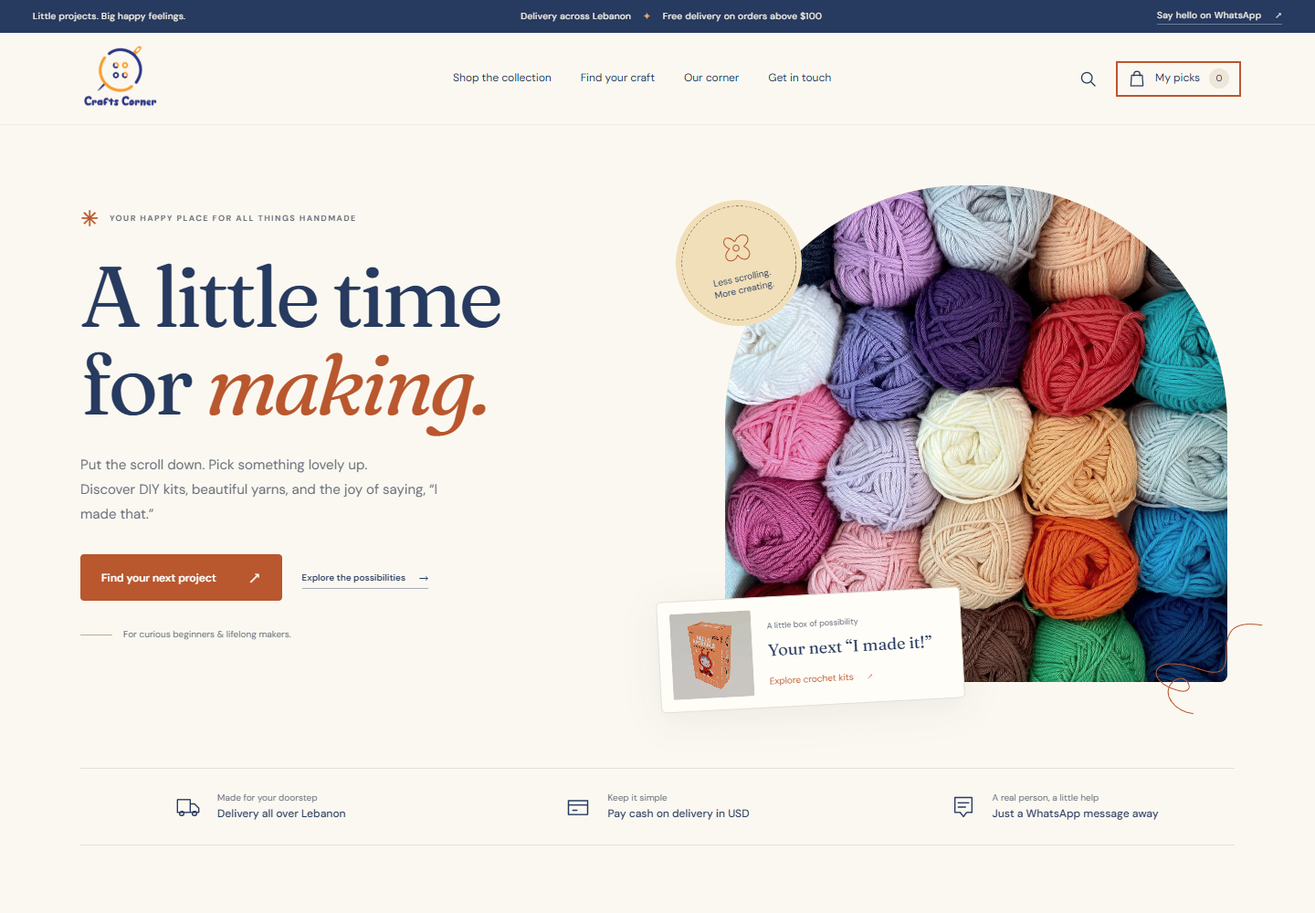
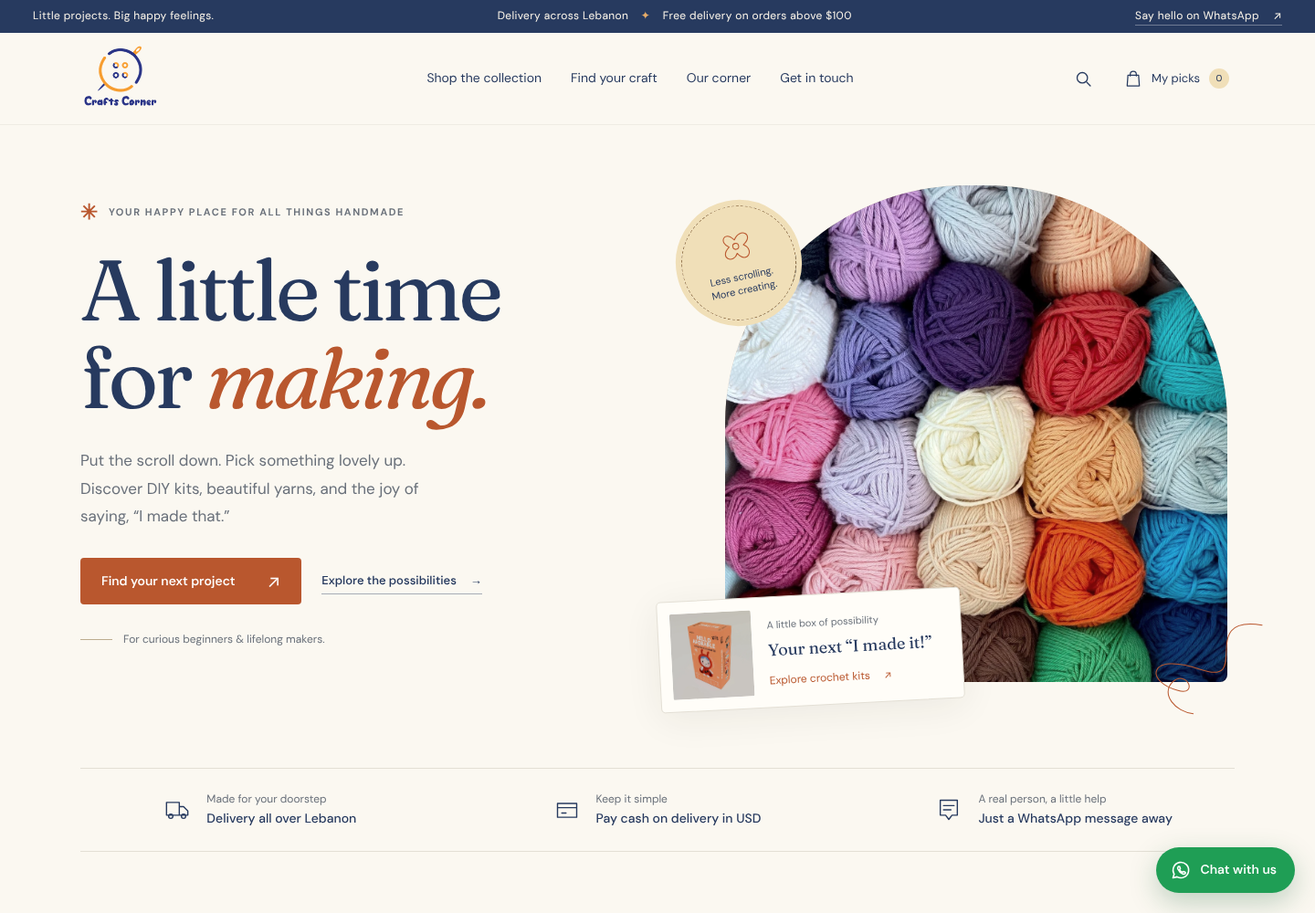
Fix bugs and polish the website design
- Search now matches design, size and palette names (e.g. Saint Charbel, Tulips)
- Fix words running together on mobile where line breaks are hidden
- Stop iPhone zooming into the search box and design dropdown (16px fields)
- Lock page scrolling behind open dialogs
- Mobile menu closes on outside tap, Escape, and when resizing to desktop
- Search panel can be closed (button or Escape)
- Raise tiny 7-10px text to readable sizes across the site
- Add hover/open animations, sticky header shadow, picks counter bump
- Add a floating WhatsApp chat button
- Swipeable filter chips on mobile; tablet headline and top bar fixes
- Make verify.cjs portable and cover the new behaviour

Claude-Session: https://claude.ai/code/session_01V1rXYJHP98HymsprMSKRRH

diff --git a/website/dist/index.html b/website/dist/index.html
@@ -26,7 +26,7 @@
       <a class="brand" href="#" aria-label="Crafts Corner home"><img src="assets/brand.png" alt="Crafts Corner" width="92" height="74"></a>
       <nav class="desktop-nav" aria-label="Main navigation"><a href="#shop">Shop the collection</a><a href="#collections">Find your craft</a><a href="#our-corner">Our corner</a><a href="#contact">Get in touch</a></nav>
       <div class="header-actions">
-        <button class="icon-button search-trigger" aria-label="Search products"><svg viewBox="0 0 24 24" aria-hidden="true"><circle cx="10.5" cy="10.5" r="6.5"/><path d="m16 16 4.5 4.5"/></svg></button>
+        <button class="icon-button search-trigger" aria-label="Search products" aria-expanded="false" aria-controls="search-panel"><svg viewBox="0 0 24 24" aria-hidden="true"><circle cx="10.5" cy="10.5" r="6.5"/><path d="m16 16 4.5 4.5"/></svg></button>
         <button class="picks-trigger" aria-label="Open my picks"><svg viewBox="0 0 24 24" aria-hidden="true"><path d="M5 7h14l1 14H4L5 7Z"/><path d="M8 8V6a4 4 0 0 1 8 0v2"/></svg><span class="picks-label">My picks</span><span class="picks-count" aria-live="polite">0</span></button>
         <button class="icon-button menu-toggle" aria-label="Open navigation" aria-expanded="false" aria-controls="mobile-nav"><svg viewBox="0 0 24 24" aria-hidden="true"><path d="M4 6h16M4 12h16M4 18h16"/></svg></button>
       </div>
@@ -51,7 +51,7 @@
     </section>
     <div class="benefits wrap"><div><svg viewBox="0 0 24 24" aria-hidden="true"><path d="M2 5h12v12H2zM14 9h4l4 4v4h-8M6 20a2 2 0 1 0 0-4 2 2 0 0 0 0 4ZM18 20a2 2 0 1 0 0-4 2 2 0 0 0 0 4Z"/></svg><span>Made for your doorstep<strong>Delivery all over Lebanon</strong></span></div><div><svg viewBox="0 0 24 24" aria-hidden="true"><path d="M3 6h18v13H3zM3 10h18M7 15h4"/></svg><span>Keep it simple<strong>Pay cash on delivery in USD</strong></span></div><div><svg viewBox="0 0 24 24" aria-hidden="true"><path d="M20 3H4v14h5l3 4 3-4h5zM7 8h10M7 12h7"/></svg><span>A real person, a little help<strong>Just a WhatsApp message away</strong></span></div></div>
     <section class="collections section wrap" id="collections" aria-labelledby="collections-title">
-      <div class="section-heading"><div><p class="eyebrow">SO MANY WAYS TO MAKE IT YOURS</p><h2 id="collections-title">What will you make today?</h2></div><p>Follow a familiar thread.<br>Or try a whole new thing.</p></div>
+      <div class="section-heading"><div><p class="eyebrow">SO MANY WAYS TO MAKE IT YOURS</p><h2 id="collections-title">What will you make today?</h2></div><p>Follow a familiar thread.<br> Or try a whole new thing.</p></div>
       <div class="category-grid">
         <a class="category category-crochet" href="#shop" data-filter-link="crochet"><div class="category-image"><img src="assets/product-6722.webp" alt="DIY crochet flower bouquet kits" width="850" height="850" loading="lazy"><span class="category-number">01</span></div><div><h3>Crochet & amigurumi</h3><span aria-hidden="true">↗</span></div><p>Little friends. Flowers that last.</p></a>
         <a class="category category-stitch" href="#shop" data-filter-link="stitch"><div class="category-image"><img src="assets/product-6932.webp" alt="Punch needle tote bag kit with floral patterns" width="850" height="850" loading="lazy"><span class="category-number">02</span></div><div><h3>Stitch, punch & play</h3><span aria-hidden="true">↗</span></div><p>A little texture. A lot of character.</p></a>
@@ -62,8 +62,8 @@
     <section class="shop-section section" id="shop" aria-labelledby="shop-title">
       <div class="wrap">
         <div class="section-heading"><div><p class="eyebrow">A FEW LOVELY PLACES TO START</p><h2 id="shop-title">Meet your next project.</h2></div><a class="text-link" href="https://www.craftscornerleb.com/shop/" target="_blank" rel="noopener">Visit the full store <span aria-hidden="true">↗</span></a></div>
-        <div class="shop-toolbar"><div class="filters" aria-label="Filter products"><button class="filter active" data-filter="all" aria-pressed="true">All the lovely things</button><button class="filter" data-filter="crochet" aria-pressed="false">Crochet</button><button class="filter" data-filter="stitch" aria-pressed="false">Stitch & punch</button><button class="filter" data-filter="diamond" aria-pressed="false">Diamond painting</button><button class="filter" data-filter="yarn" aria-pressed="false">Yarn & tools</button></div><label class="sort-label"><span class="sr-only">Sort products</span><select id="sort"><option value="featured">Our edit</option><option value="low">Price: low to high</option><option value="high">Price: high to low</option><option value="name">Name: A to Z</option></select></label></div>
-        <div class="search-panel" id="search-panel" hidden><label for="product-search">Find something lovely</label><div><svg viewBox="0 0 24 24" aria-hidden="true"><circle cx="10.5" cy="10.5" r="6.5"/><path d="m16 16 4.5 4.5"/></svg><input id="product-search" type="search" placeholder="Try yarn, flowers, punch needle…" autocomplete="off"><button class="text-link" id="clear-search">Clear</button></div></div>
+        <div class="shop-toolbar"><div class="filters" role="group" aria-label="Filter products"><button class="filter active" data-filter="all" aria-pressed="true">All the lovely things</button><button class="filter" data-filter="crochet" aria-pressed="false">Crochet</button><button class="filter" data-filter="stitch" aria-pressed="false">Stitch & punch</button><button class="filter" data-filter="diamond" aria-pressed="false">Diamond painting</button><button class="filter" data-filter="yarn" aria-pressed="false">Yarn & tools</button></div><label class="sort-label"><span class="sr-only">Sort products</span><select id="sort"><option value="featured">Our edit</option><option value="low">Price: low to high</option><option value="high">Price: high to low</option><option value="name">Name: A to Z</option></select></label></div>
+        <div class="search-panel" id="search-panel" hidden><label for="product-search">Find something lovely</label><div><svg viewBox="0 0 24 24" aria-hidden="true"><circle cx="10.5" cy="10.5" r="6.5"/><path d="m16 16 4.5 4.5"/></svg><input id="product-search" type="search" placeholder="Try yarn, flowers, punch needle…" autocomplete="off"><button class="text-link" id="clear-search">Clear</button><button class="icon-button search-close" id="close-search" aria-label="Close search">×</button></div></div>
         <p class="result-count sr-only" aria-live="polite"></p>
         <div class="product-grid" id="product-grid"></div>
         <div class="empty-results" id="empty-results" hidden><h3>No little treasures here just yet.</h3><p>Try another search or browse the whole collection.</p><button class="button primary" id="reset-products">Show all products</button></div>
@@ -74,12 +74,13 @@
       <div class="story-visual"><img src="assets/product-4575.webp" alt="Open box of colourful cotton yarn ready for a new project" width="850" height="850" loading="lazy"><span class="story-tag">A colourful kind of me-time.</span></div>
       <div class="story-copy"><p class="eyebrow">WELCOME TO OUR LITTLE CORNER</p><h2 id="story-title">Good things take<br>a little <em>handwork.</em></h2><p>Crafts Corner is an online craft store in Lebanon, bringing together DIY kits, yarn, and the little tools that help an idea become something real.</p><p>From your first crochet friend to a diamond painting you’re proud to frame, there’s a project for a quiet afternoon, a shared weekend, or a gift with a little more heart.</p><a class="text-link" href="https://www.instagram.com/craftscornerleb/" target="_blank" rel="noopener">Spend a moment in our corner <span aria-hidden="true">↗</span></a></div>
     </section>
-    <section class="made-section section" aria-labelledby="made-title"><div class="wrap"><div class="section-heading"><div><p class="eyebrow">FROM A KIT TO A KEEPSAKE</p><h2 id="made-title">That “look what I made” feeling.</h2></div><p>Finished diamond paintings shared<br>on our Instagram. A little inspiration for you.</p></div><div class="made-grid"><a href="https://www.instagram.com/p/DaQGtd3DTIF/" target="_blank" rel="noopener"><img src="assets/community-1.webp" alt="Customer’s finished framed diamond painting of Mary" loading="lazy" width="700" height="933"><span>One diamond at a time. <span aria-hidden="true">↗</span></span></a><a href="https://www.instagram.com/p/DaQGtd3DTIF/" target="_blank" rel="noopener"><img src="assets/community-2.webp" alt="Customer’s finished framed diamond painting of Saint Rita" loading="lazy" width="700" height="933"><span>A little patience, beautifully framed. <span aria-hidden="true">↗</span></span></a><a href="https://www.instagram.com/p/DaQGtd3DTIF/" target="_blank" rel="noopener"><img src="assets/community-3.webp" alt="Customer’s finished framed diamond painting of Saint George" loading="lazy" width="700" height="933"><span>Something to be proud of. <span aria-hidden="true">↗</span></span></a></div></div></section>
-    <section class="faq section wrap" id="faq" aria-labelledby="faq-title"><div><p class="eyebrow">THE LITTLE DETAILS</p><h2 id="faq-title">Before you<br>get crafty.</h2><p>Still wondering about something?<br><a href="https://wa.me/96181254495" target="_blank" rel="noopener" class="text-link">We’re a message away ↗</a></p></div><div class="faq-list"><details><summary>Do you deliver to my area?<span aria-hidden="true">+</span></summary><p>Yes, delivery is available across Lebanon. The store currently lists $3 for Beirut and $4 outside Beirut, with free delivery on orders above $100. Delivery usually takes 2–4 business days after an order is placed.</p></details><details><summary>How can I place an order?<span aria-hidden="true">+</span></summary><p>Choose a product and design, add it to My picks, then send your list to Crafts Corner on WhatsApp. The team will confirm your choices, availability, final price, and delivery. You can also order from the existing online store.</p></details><details><summary>How do I pay?<span aria-hidden="true">+</span></summary><p>Crafts Corner accepts cash on delivery in US dollars. Your order and total are confirmed with the team before dispatch.</p></details><details><summary>What comes inside a DIY kit?<span aria-hidden="true">+</span></summary><p>It depends on your project. Product details show the materials included. For example, the Hello Adorable crochet kit includes cotton yarn, a hook, stuffing, and a pattern. Ask us if you need help choosing.</p></details><details><summary>Can I exchange or return my order?<span aria-hidden="true">+</span></summary><p>The store’s current policy does not offer refunds or exchanges. Please confirm your design, colour, and kit details with the team before ordering.</p></details><a class="policy-link" href="https://www.craftscornerleb.com/faq/" target="_blank" rel="noopener">Delivery and payment details from the store’s FAQ ↗</a></div></section>
-    <section class="contact" id="contact" aria-labelledby="contact-title"><div class="wrap contact-inner"><div><p class="eyebrow">LET’S MAKE SOMETHING LOVELY</p><h2 id="contact-title">A little help.<br>A new <em>possibility.</em></h2><p>Not sure where to start? Tell us what you have in mind.<br>We’ll help you find your kind of crafty.</p><a class="button light" href="https://wa.me/96181254495?text=Hi%20Crafts%20Corner!%20I%27d%20love%20some%20help%20with%20a%20craft%20project." target="_blank" rel="noopener">Let’s chat on WhatsApp <span aria-hidden="true">↗</span></a></div><div class="contact-details"><a href="tel:+96181254495"><span>CALL OR WHATSAPP</span><strong>+961 81 254 495 <span aria-hidden="true">↗</span></strong></a><a href="https://www.instagram.com/craftscornerleb/" target="_blank" rel="noopener"><span>A LITTLE DAILY INSPIRATION</span><strong>@craftscornerleb <span aria-hidden="true">↗</span></strong></a><div><span>FROM OUR CORNER TO YOURS</span><strong>Delivered across Lebanon</strong></div></div></div><div class="footer wrap"><a href="#" class="footer-brand">Crafts Corner<span>A little time for making.</span></a><p>© <span id="year">2026</span> Crafts Corner Leb</p><div><a href="#shop">Shop</a><a href="#faq">Delivery & FAQs</a><a href="https://www.craftscornerleb.com/" target="_blank" rel="noopener">Online store ↗</a></div></div></section>
+    <section class="made-section section" aria-labelledby="made-title"><div class="wrap"><div class="section-heading"><div><p class="eyebrow">FROM A KIT TO A KEEPSAKE</p><h2 id="made-title">That “look what I made” feeling.</h2></div><p>Finished diamond paintings shared<br> on our Instagram. A little inspiration for you.</p></div><div class="made-grid"><a href="https://www.instagram.com/p/DaQGtd3DTIF/" target="_blank" rel="noopener"><img src="assets/community-1.webp" alt="Customer’s finished framed diamond painting of Mary" loading="lazy" width="700" height="933"><span>One diamond at a time. <span aria-hidden="true">↗</span></span></a><a href="https://www.instagram.com/p/DaQGtd3DTIF/" target="_blank" rel="noopener"><img src="assets/community-2.webp" alt="Customer’s finished framed diamond painting of Saint Rita" loading="lazy" width="700" height="933"><span>A little patience, beautifully framed. <span aria-hidden="true">↗</span></span></a><a href="https://www.instagram.com/p/DaQGtd3DTIF/" target="_blank" rel="noopener"><img src="assets/community-3.webp" alt="Customer’s finished framed diamond painting of Saint George" loading="lazy" width="700" height="933"><span>Something to be proud of. <span aria-hidden="true">↗</span></span></a></div></div></section>
+    <section class="faq section wrap" id="faq" aria-labelledby="faq-title"><div><p class="eyebrow">THE LITTLE DETAILS</p><h2 id="faq-title">Before you<br>get crafty.</h2><p>Still wondering about something?<br> <a href="https://wa.me/96181254495" target="_blank" rel="noopener" class="text-link">We’re a message away ↗</a></p></div><div class="faq-list"><details><summary>Do you deliver to my area?<span aria-hidden="true">+</span></summary><p>Yes, delivery is available across Lebanon. The store currently lists $3 for Beirut and $4 outside Beirut, with free delivery on orders above $100. Delivery usually takes 2–4 business days after an order is placed.</p></details><details><summary>How can I place an order?<span aria-hidden="true">+</span></summary><p>Choose a product and design, add it to My picks, then send your list to Crafts Corner on WhatsApp. The team will confirm your choices, availability, final price, and delivery. You can also order from the existing online store.</p></details><details><summary>How do I pay?<span aria-hidden="true">+</span></summary><p>Crafts Corner accepts cash on delivery in US dollars. Your order and total are confirmed with the team before dispatch.</p></details><details><summary>What comes inside a DIY kit?<span aria-hidden="true">+</span></summary><p>It depends on your project. Product details show the materials included. For example, the Hello Adorable crochet kit includes cotton yarn, a hook, stuffing, and a pattern. Ask us if you need help choosing.</p></details><details><summary>Can I exchange or return my order?<span aria-hidden="true">+</span></summary><p>The store’s current policy does not offer refunds or exchanges. Please confirm your design, colour, and kit details with the team before ordering.</p></details><a class="policy-link" href="https://www.craftscornerleb.com/faq/" target="_blank" rel="noopener">Delivery and payment details from the store’s FAQ ↗</a></div></section>
+    <section class="contact" id="contact" aria-labelledby="contact-title"><div class="wrap contact-inner"><div><p class="eyebrow">LET’S MAKE SOMETHING LOVELY</p><h2 id="contact-title">A little help.<br>A new <em>possibility.</em></h2><p>Not sure where to start? Tell us what you have in mind.<br> We’ll help you find your kind of crafty.</p><a class="button light" href="https://wa.me/96181254495?text=Hi%20Crafts%20Corner!%20I%27d%20love%20some%20help%20with%20a%20craft%20project." target="_blank" rel="noopener">Let’s chat on WhatsApp <span aria-hidden="true">↗</span></a></div><div class="contact-details"><a href="tel:+96181254495"><span>CALL OR WHATSAPP</span><strong>+961 81 254 495 <span aria-hidden="true">↗</span></strong></a><a href="https://www.instagram.com/craftscornerleb/" target="_blank" rel="noopener"><span>A LITTLE DAILY INSPIRATION</span><strong>@craftscornerleb <span aria-hidden="true">↗</span></strong></a><div><span>FROM OUR CORNER TO YOURS</span><strong>Delivered across Lebanon</strong></div></div></div><div class="footer wrap"><a href="#" class="footer-brand">Crafts Corner<span>A little time for making.</span></a><p>© <span id="year">2026</span> Crafts Corner Leb</p><div><a href="#shop">Shop</a><a href="#faq">Delivery & FAQs</a><a href="https://www.craftscornerleb.com/" target="_blank" rel="noopener">Online store ↗</a></div></div></section>
   </main>
   <dialog id="product-dialog" class="product-dialog" aria-labelledby="product-title"><button class="dialog-close icon-button" data-close-product aria-label="Close product details">×</button><div id="product-detail"></div></dialog>
   <dialog id="picks-dialog" class="picks-dialog" aria-labelledby="picks-title"><div class="drawer-heading"><div><p class="eyebrow">YOUR NEXT LITTLE POSSIBILITIES</p><h2 id="picks-title">My picks <span id="drawer-count">0</span></h2></div><button class="icon-button" data-close-picks aria-label="Close my picks">×</button></div><div id="picks-items"></div><div class="picks-checkout" id="picks-checkout"><p>Send your picks to the team to confirm designs, availability, prices, and delivery.</p><a id="whatsapp-picks" class="button primary" href="https://wa.me/96181254495" target="_blank" rel="noopener">Send my picks on WhatsApp <span aria-hidden="true">↗</span></a><button class="text-link copy-picks">Copy my list instead</button><small>No payment is taken here. This opens a message for you to review and send.</small></div></dialog>
+  <a class="wa-float" href="https://wa.me/96181254495?text=Hi%20Crafts%20Corner!%20I%27d%20love%20some%20help%20choosing%20a%20project." target="_blank" rel="noopener" aria-label="Chat with Crafts Corner on WhatsApp"><svg viewBox="0 0 24 24" aria-hidden="true"><path d="M3.5 20.5l1.3-4.2A8.5 8.5 0 1 1 8 19.4l-4.5 1.1Z"/><path d="M9 8.6c.2-.5.5-.6.8-.6h.5c.2 0 .4.1.5.4l.7 1.6c.1.2 0 .5-.1.6l-.5.6c-.1.2-.1.4 0 .6.6 1 1.4 1.8 2.4 2.4.2.1.4.1.6 0l.6-.6c.2-.1.4-.2.6-.1l1.6.7c.3.1.4.3.4.5v.5c0 .3-.2.7-.6.9-.6.3-1.4.4-2.2.1a10 10 0 0 1-5.5-5.4c-.3-.9-.2-1.6.2-2.2Z"/></svg><span>Chat with us</span></a>
   <div class="toast" id="toast" role="status" aria-live="polite"></div>
 </body>
 </html>

diff --git a/website/dist/styles.css b/website/dist/styles.css
@@ -5,4 +5,19 @@
 @media(max-width:900px){.desktop-nav{gap:15px;font-size:10px}.picks-label{display:none}.header-inner{gap:15px;height:88px}.brand img{width:80px;height:65px}.hero{gap:30px;padding-block:45px 70px;min-height:640px}.hero h1{font-size:66px;letter-spacing:-3px}.hero-art{height:450px}.hero-description{font-size:13px}.hero-actions{display:block}.hero-actions>.text-link{margin-top:18px}.hero-mini{left:-35px;bottom:-23px;width:260px;padding:10px;gap:12px}.hero-mini>img{width:65px;height:75px}.hero-mini strong{font-size:14px}.hero-mini a,.hero-mini span{font-size:8px}.round-note{width:95px;height:95px;left:-6px;top:15px}.round-note span{font-size:8px}.note-flower{width:30px;height:30px}.thread-line{right:-20px;bottom:-38px;width:95px}.hero .eyebrow{font-size:7px;letter-spacing:1px;align-items:flex-start;gap:8px}.small-star{font-size:18px}.hero-note{font-size:9px}.benefits{gap:15px}.benefits>div{gap:10px}.benefits svg{width:24px}.benefits span{font-size:8px}.benefits strong{font-size:10px}.category-grid{gap:15px}.category-image{height:180px}.category-image img{padding:10px}.category h3{font-size:17px}.category p{font-size:10px}.section-heading h2{font-size:35px}.section-heading>p{font-size:11px}.product-grid{grid-template-columns:repeat(3,1fr)}.shop-toolbar{align-items:flex-start}.filters{gap:5px}.filter{font-size:9px;padding:7px 11px}.sort-label select{font-size:9px;max-width:115px}.story{gap:45px}.story-copy h2{font-size:38px}.story-copy p:not(.eyebrow){font-size:12px}.made-grid img{height:285px}.faq{gap:50px;grid-template-columns:.7fr 1.3fr}.faq h2{font-size:39px}.contact-inner{gap:50px}.contact h2{font-size:52px}.contact-details strong{font-size:20px}.footer>div{gap:15px}.announcement{font-size:8px}.section{padding-block:60px}}
 @media(max-width:650px){.wrap{width:calc(100% - 40px)}.announcement{height:30px;justify-content:center;padding-inline:10px;font-size:8px;letter-spacing:.2px}.announcement>span:first-child,.announcement>a{display:none}.announcement-delivery span{margin-inline:6px}.header-inner{height:78px}.desktop-nav{display:none}.menu-toggle{display:inline-flex}.header-actions{gap:10px}.brand img{width:76px;height:62px}.header-actions .icon-button{width:34px;height:34px;padding:6px}.picks-trigger{gap:7px}.picks-count{width:20px;height:20px}.hero{grid-template-columns:1fr;gap:30px;padding-top:35px;padding-bottom:65px;min-height:0}.hero .eyebrow{font-size:7px;letter-spacing:1.1px;margin-bottom:20px;align-items:center}.hero h1{font-size:69px;line-height:1.02;letter-spacing:-3.5px;margin-bottom:22px}.hero-description{font-size:13px;line-height:1.8;max-width:370px;margin-bottom:24px}.hero-actions{display:flex;align-items:center;gap:15px}.hero-actions .button{font-size:11px;gap:22px;min-height:49px;padding:13px 17px}.hero-actions>.text-link{margin-top:0;font-size:9px;gap:7px}.hero-note{margin-top:20px}.hero-art{height:400px;margin-left:15px;margin-right:7px;padding-left:28px;padding-right:0}.hero-image-frame{border-radius:45% 45% 5px 5px}.round-note{top:25px;left:0;width:102px;height:102px}.hero-mini{bottom:-23px;left:-8px;width:277px;padding:11px;gap:14px}.hero-mini>img{width:73px;height:76px}.hero-mini strong{font-size:16px}.hero-mini a{font-size:9px}.hero-mini span{font-size:9px}.thread-line{right:-15px;bottom:-32px;width:95px}.benefits{grid-template-columns:1fr;padding-block:19px;gap:17px}.benefits>div{justify-content:flex-start;padding-left:20px;gap:18px}.benefits span{font-size:9px}.benefits strong{font-size:11px}.benefits svg{width:25px;height:25px}.section{padding-block:48px}.section-heading{display:block;margin-bottom:27px}.section-heading .eyebrow{font-size:8px;letter-spacing:1.5px;margin-bottom:10px}.section-heading h2{font-size:32px;letter-spacing:-1px}.section-heading>p{font-size:11px;margin:13px 0 0;line-height:1.6}.section-heading>p br{display:none}.section-heading>.text-link{margin-top:15px;font-size:10px}.category-grid{grid-template-columns:1fr 1fr;gap:26px 15px}.category-image{height:auto;aspect-ratio:1/1.1}.category h3{font-size:18px;line-height:1.15}.category>div:nth-child(2){margin-top:12px;align-items:flex-start}.category p{font-size:9px}.category>div>span:not(.category-number){font-size:18px;line-height:1.2}.category-number{width:23px;height:23px;font-size:8px;bottom:10px;left:10px}.shop-toolbar{display:block;padding-bottom:13px;margin-bottom:23px}.filters{gap:5px;margin-bottom:10px}.filter{padding:7px 11px;font-size:9px}.sort-label{display:flex;justify-content:flex-end}.sort-label select{font-size:10px;padding-right:3px}.product-grid{grid-template-columns:1fr 1fr;column-gap:15px;row-gap:25px}.product-image-button{aspect-ratio:1/1.1}.product-image-button>img{padding:8px}.product-open{right:8px;bottom:8px;width:29px;height:29px;font-size:21px}.product-tag{font-size:7px;padding:3px 5px;left:8px;top:8px}.product-category{font-size:7px;letter-spacing:.7px;margin-top:12px}.product-title{font-size:18px;letter-spacing:-.3px;line-height:1.25;margin-bottom:9px}.product-bottom{font-size:10px;align-items:flex-start;gap:5px;flex-direction:column}.product-designs{font-size:8px}.shop-bottom{display:block;margin-top:28px;padding-top:20px}.shop-bottom p{font-size:10px;margin-bottom:12px}.shop-bottom .text-link{font-size:10px}.story{grid-template-columns:1fr;gap:35px}.story-visual{aspect-ratio:1.2}.story-copy .eyebrow{font-size:8px}.story-copy h2{font-size:41px;margin-bottom:20px}.story-copy p:not(.eyebrow){font-size:12px;max-width:none}.made-grid{gap:12px;grid-template-columns:1fr 1fr}.made-grid a:nth-child(2){padding-top:25px}.made-grid a:nth-child(3){display:none}.made-grid img{height:240px}.made-grid a>span{font-size:9px;line-height:1.6;gap:8px;margin-top:10px}.faq{grid-template-columns:1fr;gap:23px}.faq h2{font-size:40px;margin-bottom:13px}.faq>div>p:not(.eyebrow){font-size:12px}.faq>div>p br{display:none}.faq-list summary{font-size:12px;padding-block:18px}.faq-list details p{font-size:11px;padding-right:15px}.contact{padding-top:45px}.contact-inner{grid-template-columns:1fr;gap:27px;padding-bottom:37px}.contact .eyebrow{font-size:8px}.contact h2{font-size:52px}.contact p{font-size:11px}.contact-details{padding-top:0}.contact-details strong{font-size:24px}.contact-details>*:last-child{border-bottom:none}.footer{display:grid;grid-template-columns:1fr auto;gap:22px;padding-block:25px}.footer-brand{font-size:23px}.footer p{font-size:8px;text-align:right}.footer>div{grid-column:1/-1;font-size:9px;gap:25px}.detail-layout{grid-template-columns:1fr}.product-dialog{max-height:calc(100dvh - 25px)}.detail-image{height:220px;min-height:0}.detail-image img{padding:13px}.detail-copy{padding:25px}.detail-copy h2{font-size:31px}.detail-copy .eyebrow{font-size:8px}.detail-description{font-size:12px}.detail-price{font-size:19px;margin-block:12px}.variant-label{margin-top:15px}.detail-copy .button{margin-top:18px}.picks-dialog{padding:22px}.drawer-heading .eyebrow{font-size:7px}.drawer-heading h2{font-size:32px}.picks-checkout .button{font-size:11px}.search-panel label{font-size:23px}.search-panel input{font-size:12px}.search-panel>div{padding:10px}.search-panel svg{width:17px;flex-shrink:0}.search-panel .text-link{font-size:10px}.desktop-break{display:none}html{scroll-padding-top:90px}}
 @media(max-width:365px){.wrap{width:calc(100% - 30px)}.hero h1{font-size:61px}.hero-actions{gap:12px}.hero-actions .button{font-size:10px;gap:15px;padding-inline:14px}.hero-actions>.text-link{font-size:8px}.hero-art{height:360px}.product-title{font-size:16px}.category h3{font-size:16px}.hero .eyebrow{font-size:6.5px;letter-spacing:.7px}.contact h2{font-size:46px}}
+/* Readability: no text below 11px, form fields at 16px so phones don't zoom in */
+.announcement{font-size:12px}.desktop-nav{font-size:14px}.picks-trigger{font-size:13px}.eyebrow{font-size:11px;letter-spacing:1.8px}.hero .eyebrow{font-size:11px;letter-spacing:1.6px}.button{font-size:14px}.text-link,.hero-actions>.text-link{font-size:13px}.hero-description{font-size:17px}.hero-note{font-size:12px}.round-note span{font-size:11px}.hero-mini span{font-size:11px}.hero-mini a{font-size:12px}.benefits span{font-size:12px}.benefits strong{font-size:14px}.section-heading>p{font-size:14px}.category p{font-size:13px}.filter{font-size:13px}.sort-label select{font-size:13px}.product-tag{font-size:11px}.product-category{font-size:11px}.product-bottom{font-size:14px}.product-designs{font-size:12px}.shop-bottom p{font-size:14px}.story-copy p:not(.eyebrow){font-size:15px}.made-grid a>span{font-size:13px}.faq>div>p:not(.eyebrow){font-size:15px}.faq-list summary{font-size:16px}.faq-list details p{font-size:14px}.policy-link{font-size:12px}.contact p{font-size:15px}.contact-details>*>span{font-size:11px}.footer-brand span,.footer p{font-size:12px}.footer>div{font-size:13px}.detail-copy .eyebrow{text-transform:uppercase;letter-spacing:1.5px}.detail-description{font-size:15px}.detail-note{font-size:12px}.variant-label{font-size:13px}.variant-select,.search-panel input{font-size:16px}.product-source-link{font-size:12px}.drawer-heading .eyebrow{font-size:10px}.pick-item p,.remove-pick{font-size:12px}.quantity-control span{font-size:13px}.picks-checkout p,.empty-picks p{font-size:14px}.picks-checkout .button{font-size:14px}.picks-checkout small{font-size:11px}.toast{font-size:14px}
+/* Polish */
+::selection{background:#f0dfb8;color:var(--ink)}.header{transition:box-shadow .3s,background .3s}.header.scrolled{background:#fbf8f1ee;backdrop-filter:blur(10px);box-shadow:0 6px 30px #273a5f14}.button{box-shadow:0 1px 0 #0000}.button.primary:hover{box-shadow:0 10px 24px #b9572e33}.filter{transition:background .2s,color .2s,border-color .2s}.product-image-button{transition:box-shadow .35s,transform .35s}.product-card:hover .product-image-button{box-shadow:0 14px 34px #273a5f17;transform:translateY(-3px)}.product-title>button{transition:color .2s}.category .category-image{transition:box-shadow .35s}.category:hover .category-image{box-shadow:0 14px 34px #273a5f14}.category>div>span:not(.category-number){transition:transform .25s,color .25s}.category:hover>div>span:not(.category-number){transform:translate(3px,-3px);color:var(--orange)}.faq-list summary{transition:color .2s}.faq-list summary:hover{color:var(--orange)}.faq-list summary span{transition:transform .25s}.faq-list details[open] p{animation:fade-in .35s ease}.made-grid img{transition:transform .5s,filter .3s}.made-grid a{display:block}.made-grid a:hover img{transform:translateY(-4px)}.contact-details strong>span{transition:transform .25s}.contact-details>a:hover strong>span{transform:translate(3px,-3px)}
+.picks-count{transition:background .2s}.picks-count.bump{animation:bump .45s ease;background:#f0dfb8}
+.product-dialog[open]{animation:dialog-in .3s cubic-bezier(.2,.8,.2,1)}.picks-dialog[open]{animation:drawer-in .35s cubic-bezier(.2,.8,.2,1)}.product-dialog[open]::backdrop,.picks-dialog[open]::backdrop{animation:fade-in .3s ease}body:has(dialog[open]){overflow:hidden}
+.search-panel>div{transition:border-color .2s,box-shadow .2s}.search-panel>div:focus-within{border-color:var(--ink);box-shadow:0 0 0 3px #273a5f14}.search-panel input:focus{outline:none}.search-close{width:32px;height:32px;font-size:24px;color:var(--muted)}
+.mobile-nav{background:var(--cream)}.mobile-nav a{font-family:var(--serif);font-size:22px;padding:12px 0;border-bottom:1px solid var(--line)}.mobile-nav a:last-child{border-bottom:0}.mobile-nav:not([hidden]){animation:fade-in .25s ease}
+.wa-float{position:fixed;right:22px;bottom:22px;z-index:20;display:flex;align-items:center;gap:10px;padding:13px 20px 13px 15px;background:#1f9e55;color:white;border-radius:40px;box-shadow:0 10px 30px #0f5c3040;font-size:14px;font-weight:550;transition:transform .2s,box-shadow .2s,background .2s}.wa-float svg{width:24px;height:24px;stroke-width:1.6}.wa-float:hover{transform:translateY(-3px);background:#188a49;box-shadow:0 14px 34px #0f5c304d}
+@keyframes fade-in{from{opacity:0}to{opacity:1}}@keyframes dialog-in{from{opacity:0;transform:translateY(24px) scale(.98)}to{opacity:1;transform:none}}@keyframes drawer-in{from{transform:translateX(100%)}to{transform:none}}@keyframes bump{40%{transform:scale(1.35)}}
+@media(min-width:651px){.mobile-nav{display:none!important}}
+@media(max-width:1150px){.desktop-nav{font-size:13px;gap:22px}.thread-line{right:-26px}}
+@media(max-width:900px){.announcement{font-size:11px}.announcement>span:first-child{display:none}.desktop-nav{font-size:12px;gap:16px}.hero h1{font-size:56px;letter-spacing:-2.5px}.desktop-break{display:none}.hero .eyebrow{font-size:10px;letter-spacing:1px}.hero-description{font-size:15px}.round-note span{font-size:10px}.hero-mini span,.hero-mini a{font-size:11px}.benefits span{font-size:11px}.benefits strong{font-size:13px}.filter{font-size:12px}.sort-label select{font-size:12px;max-width:150px}}
+@media(max-width:650px){.announcement{font-size:11px}.hero h1{font-size:69px;letter-spacing:-3.5px}.hero .eyebrow{font-size:10px;letter-spacing:1.2px}.hero-description{font-size:15px}.hero-actions .button{font-size:14px}.hero-actions>.text-link{font-size:13px}.eyebrow,.section-heading .eyebrow,.story-copy .eyebrow,.contact .eyebrow,.detail-copy .eyebrow{font-size:11px;letter-spacing:1.4px}.section-heading>p{font-size:14px}.category p{font-size:12px}.filters{flex-wrap:nowrap;overflow-x:auto;margin-inline:-20px;padding-inline:20px;scrollbar-width:none}.filters::-webkit-scrollbar{display:none}.filter{font-size:13px;padding:8px 14px;border-color:#d5d2c9}.filter.active{border-color:var(--ink)}.sort-label select{font-size:14px}.product-tag{font-size:10px}.product-category{font-size:10px}.product-bottom{font-size:14px}.product-designs{font-size:11px}.shop-bottom p,.shop-bottom .text-link,.section-heading>.text-link{font-size:13px}.story-copy p:not(.eyebrow){font-size:15px}.made-grid a>span{font-size:12px}.faq>div>p:not(.eyebrow){font-size:15px}.faq-list summary{font-size:15px}.faq-list details p{font-size:14px}.contact p{font-size:15px}.footer p{font-size:11px}.footer>div{font-size:13px}.detail-description{font-size:15px}.drawer-heading .eyebrow{font-size:10px}.search-panel .text-link{font-size:13px}.thread-line{right:-15px}.contact p br{display:none}.footer{padding-bottom:90px}.wa-float{right:16px;bottom:16px;padding:14px}.wa-float span{display:none}.wa-float svg{width:26px;height:26px}.toast{bottom:90px}}
+@media(max-width:365px){.filters{margin-inline:-15px;padding-inline:15px}.hero h1{font-size:61px}.hero .eyebrow{font-size:9px;letter-spacing:.8px}.hero-actions .button{font-size:13px}.hero-actions>.text-link{font-size:12px}}
 @media(prefers-reduced-motion:reduce){html{scroll-behavior:auto}*,*:before,*:after{transition:none!important;animation:none!important}}

diff --git a/website/dist/app.js b/website/dist/app.js
@@ -10,9 +10,9 @@
   try { const saved = JSON.parse(localStorage.getItem('crafts-corner-picks-v1') || '[]'); if (Array.isArray(saved)) picks = saved.filter(r => products.some(p => p.id === r.id) && Number.isInteger(r.quantity) && r.quantity > 0 && r.quantity <= 99 && typeof r.variant === 'string' && r.variant.length <= 200); } catch {}
   const notify = message => { $('#toast').textContent = message; $('#toast').classList.add('visible'); clearTimeout(toastTimer); toastTimer = setTimeout(() => $('#toast').classList.remove('visible'), 3200); };
   function persist() { try { localStorage.setItem('crafts-corner-picks-v1', JSON.stringify(picks)); } catch {} updateCounts(); }
-  function updateCounts() { const count = picks.reduce((sum, p) => sum + p.quantity, 0); $$('.picks-count').forEach(e => e.textContent = count); $('#drawer-count').textContent = count; }
+  function updateCounts() { const count = picks.reduce((sum, p) => sum + p.quantity, 0); $$('.picks-count').forEach(e => { if (e.textContent !== String(count)) { e.classList.remove('bump'); void e.offsetWidth; e.classList.add('bump'); } e.textContent = count; }); $('#drawer-count').textContent = count; }
   function renderProducts() {
-    let shown = products.filter(p => (category === 'all' || p.category === category) && (!search || `${p.name} ${p.description} ${p.label}`.toLowerCase().includes(search)));
+    let shown = products.filter(p => (category === 'all' || p.category === category) && (!search || `${p.name} ${p.description} ${p.label} ${p.tag || ''} ${p.options.join(' ')}`.toLowerCase().includes(search)));
     if (sort === 'low') shown.sort((a,b) => a.price - b.price);
     if (sort === 'high') shown.sort((a,b) => b.price - a.price);
     if (sort === 'name') shown.sort((a,b) => a.name.localeCompare(b.name));
@@ -25,17 +25,25 @@
   $$('.filter').forEach(b => b.addEventListener('click', () => setCategory(b.dataset.filter)));
   $$('[data-filter-link]').forEach(a => a.addEventListener('click', () => { search = ''; $('#product-search').value = ''; setCategory(a.dataset.filterLink); }));
   $('#sort').addEventListener('change', e => { sort = e.target.value; renderProducts(); });
-  $('.search-trigger').addEventListener('click', () => { $('#search-panel').hidden = false; $('#shop').scrollIntoView({behavior:'smooth'}); $('#product-search').focus({preventScroll:true}); });
+  const searchButton = $('.search-trigger');
+  function closeSearch() { search = ''; $('#product-search').value = ''; $('#search-panel').hidden = true; searchButton.setAttribute('aria-expanded', 'false'); renderProducts(); }
+  searchButton.addEventListener('click', () => { $('#search-panel').hidden = false; searchButton.setAttribute('aria-expanded', 'true'); $('#shop').scrollIntoView({behavior:'smooth'}); $('#product-search').focus({preventScroll:true}); });
+  $('#close-search').addEventListener('click', () => { closeSearch(); searchButton.focus({preventScroll:true}); });
+  $('#product-search').addEventListener('keydown', e => { if (e.key === 'Escape') { if (e.target.value) { e.target.value = ''; search = ''; renderProducts(); } else closeSearch(); } });
   $('#product-search').addEventListener('input', e => { search = e.target.value.trim().toLowerCase(); renderProducts(); });
   $('#clear-search').addEventListener('click', () => { search = ''; $('#product-search').value = ''; renderProducts(); $('#product-search').focus(); });
   $('#reset-products').addEventListener('click', () => { search = ''; $('#product-search').value = ''; setCategory('all'); });
   const menuButton = $('.menu-toggle');
-  menuButton.addEventListener('click', () => { const open = menuButton.getAttribute('aria-expanded') !== 'true'; menuButton.setAttribute('aria-expanded', String(open)); menuButton.setAttribute('aria-label', open ? 'Close navigation' : 'Open navigation'); $('#mobile-nav').hidden = !open; });
-  $$('#mobile-nav a').forEach(a => a.addEventListener('click', () => { $('#mobile-nav').hidden = true; menuButton.setAttribute('aria-expanded','false'); menuButton.setAttribute('aria-label','Open navigation'); }));
+  function setMenu(open) { menuButton.setAttribute('aria-expanded', String(open)); menuButton.setAttribute('aria-label', open ? 'Close navigation' : 'Open navigation'); $('#mobile-nav').hidden = !open; }
+  const menuOpen = () => menuButton.getAttribute('aria-expanded') === 'true';
+  menuButton.addEventListener('click', () => setMenu(!menuOpen()));
+  $$('#mobile-nav a').forEach(a => a.addEventListener('click', () => setMenu(false)));
+  document.addEventListener('click', e => { if (menuOpen() && !e.target.closest('.header')) setMenu(false); });
+  matchMedia('(min-width: 651px)').addEventListener('change', e => { if (e.matches) setMenu(false); });
   function openProduct(id) {
     const p = products.find(p => p.id === id); if (!p) return;
     $('#product-detail').innerHTML = `<div class="detail-layout"><div class="detail-image"><img src="assets/product-${p.id}.webp" alt="${escape(p.name)}"></div><div class="detail-copy"><p class="eyebrow">${escape(p.label)}</p><h2 id="product-title">${escape(p.name)}</h2><p class="detail-description">${escape(p.description)}</p><div class="detail-price">${price(p)}</div><p class="detail-note">${p.variablePrice ? 'Price varies with your selection. ' : ''}Availability and final price are confirmed on WhatsApp.</p><form id="pick-form">${p.options.length ? `<label class="variant-label" for="product-variant">${escape(p.optionLabel)} <span aria-hidden="true">*</span></label><select class="variant-select" id="product-variant" required><option value="">Choose ${p.optionLabel.toLowerCase() === 'size' ? 'a size' : p.optionLabel.toLowerCase() === 'colour palette' ? 'a palette' : 'a design'}</option>${p.options.map(o => `<option value="${escape(o)}">${escape(o)}</option>`).join('')}</select>` : ''}<button class="button primary" type="submit">Add to my picks <span aria-hidden="true">+</span></button></form><a class="product-source-link" href="${escape(p.url)}" target="_blank" rel="noopener">Full product details on the online store ↗</a></div></div>`;
-    $('#pick-form').addEventListener('submit', e => { e.preventDefault(); const variant = $('#product-variant')?.value || ''; if (p.options.length && !p.options.includes(variant)) return; const existing = picks.find(item => item.id === id && item.variant === variant); if (existing) existing.quantity = Math.min(99, existing.quantity + 1); else picks.push({id,variant,quantity:1}); persist(); $('#product-dialog').close(); notify('A little possibility added to My picks.'); });
+    $('#pick-form').addEventListener('submit', e => { e.preventDefault(); const variant = $('#product-variant')?.value || ''; if (p.options.length && !p.options.includes(variant)) return; const existing = picks.find(item => item.id === id && item.variant === variant); if (existing) existing.quantity = Math.min(99, existing.quantity + 1); else picks.push({id,variant,quantity:1}); persist(); $('#product-dialog').close(); notify(`${p.name}${variant ? ' — ' + variant : ''} added to My picks.`); });
     $('#product-dialog').showModal();
   }
   $('#product-grid').addEventListener('click', e => { const b = e.target.closest('[data-product]'); if (b) openProduct(Number(b.dataset.product)); });
@@ -58,7 +66,9 @@
   });
   $('.copy-picks').addEventListener('click', async () => { try { await navigator.clipboard.writeText(messageText()); notify('Your list is copied. Paste it into a message.'); } catch { notify('Please use “Send my picks on WhatsApp” to open your list.'); } });
   $$('dialog').forEach(dialog => dialog.addEventListener('click', e => { if(e.target===dialog) { const r=dialog.getBoundingClientRect(); if(e.clientX<r.left||e.clientX>r.right||e.clientY<r.top||e.clientY>r.bottom)dialog.close(); } }));
-  document.addEventListener('keydown', e => { if(e.key==='Escape') { $('#mobile-nav').hidden=true; menuButton.setAttribute('aria-expanded','false'); menuButton.setAttribute('aria-label','Open navigation'); } });
+  document.addEventListener('keydown', e => { if (e.key === 'Escape' && menuOpen()) { setMenu(false); menuButton.focus(); } });
+  const header = $('.header'), onScroll = () => header.classList.toggle('scrolled', scrollY > 40);
+  addEventListener('scroll', onScroll, {passive:true}); onScroll();
   $('#year').textContent = new Date().getFullYear();
   renderProducts(); updateCounts();
 })();
